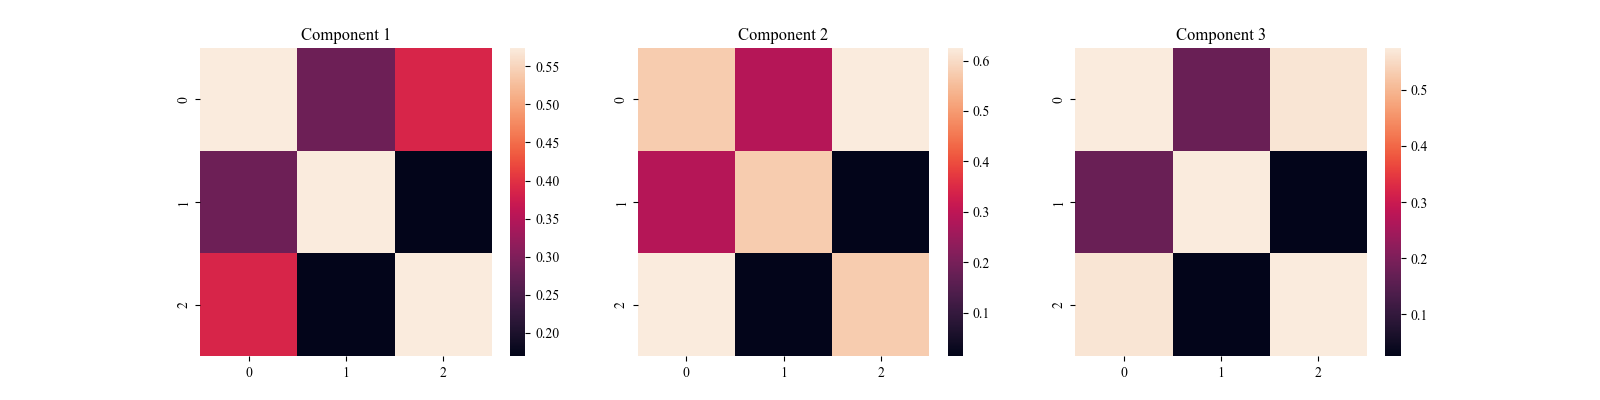
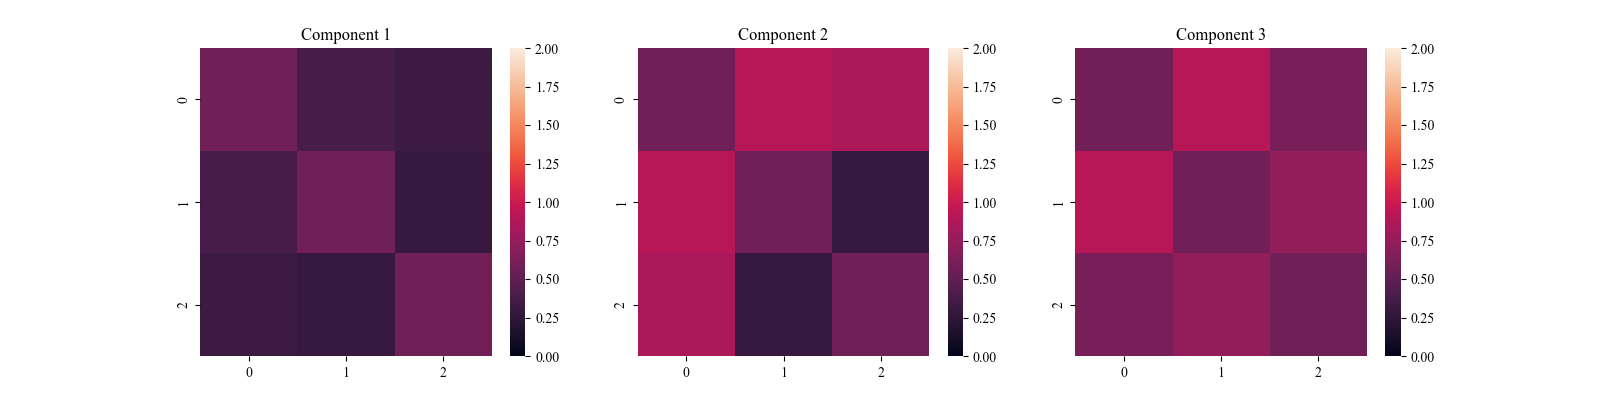
heatmap fix (#38)

diff --git a/src/results/phi_nce_plot.py b/src/results/phi_nce_plot.py
@@ -114,18 +114,21 @@ if __name__ == "__main__":
 
     Ps = get_phi_corr(theta, K)
 
+    min_val = 0
+    max_val = 1.5
+   
     plt.rcParams['font.family'] = 'Times New Roman'
     plt.figure(figsize=(16,4))
     plt.subplot(1,3,1)
-    plot = sns.heatmap(Ps[0])
+    plot = sns.heatmap(Ps[0], vmin=min_val, vmax=max_val)
     plt.title('Component 1')
 
     plt.subplot(1,3,2)
-    plot = sns.heatmap(Ps[1])
+    plot = sns.heatmap(Ps[1], vmin=min_val, vmax=max_val)
     plt.title('Component 2')
 
     plt.subplot(1,3,3)
-    plot = sns.heatmap(Ps[2])
+    plot = sns.heatmap(Ps[2], vmin=min_val, vmax=max_val)
     plt.title('Component 3')
 
     plt.savefig('src/plots/syn_data_phi_heatmap.png')
@@ -137,15 +140,15 @@ if __name__ == "__main__":
     plt.rcParams['font.family'] = 'Times New Roman'
     plt.figure(figsize=(16,4))
     plt.subplot(1,3,1)
-    plot = sns.heatmap(true_phis[0])
+    plot = sns.heatmap(true_phis[0], vmin=min_val, vmax=max_val)
     plt.title('Component 1')
 
     plt.subplot(1,3,2)
-    plot = sns.heatmap(true_phis[1])
+    plot = sns.heatmap(true_phis[1], vmin=min_val, vmax=max_val)
     plt.title('Component 2')
 
     plt.subplot(1,3,3)
-    plot = sns.heatmap(true_phis[2])
+    plot = sns.heatmap(true_phis[2], vmin = min_val, vmax = max_val)
     plt.title('Component 3')
 
     plt.savefig('src/plots/true_phi.png')

diff --git a/src/results/real_phi_nce_plot.py b/src/results/real_phi_nce_plot.py
@@ -90,28 +90,31 @@ if __name__ == "__main__":
         estimationMethod = estimation_method, 
         true_vals = true_vals)
 
-    value = torus_graph.evaluate()
+    #value = torus_graph.evaluate()
 
     theta = estimation_method.theta
+
+    min_val = 0
+    max_val = 1
 
     Ps = get_phi_corr(theta)
     plt.rcParams['font.family'] = 'Times New Roman'
 
     plt.figure(figsize=(16,4))
     plt.subplot(1,3,1)
-    plot = sns.heatmap(Ps[0])
+    plot = sns.heatmap(Ps[0], vmin=min_val, vmax=max_val)
     plot.set_xticklabels(['1','2','3','4','5','6','7'])
     plot.set_yticklabels(['1','2','3','4','5','6','7'])
     plt.title('Component 1')
 
     plt.subplot(1,3,2)
-    plot = sns.heatmap(Ps[1])
+    plot = sns.heatmap(Ps[1], vmin=min_val, vmax=max_val)
     plot.set_xticklabels(['1','2','3','4','5','6','7'])
     plot.set_yticklabels(['1','2','3','4','5','6','7'])
     plt.title('Component 2')
 
     plt.subplot(1,3,3)
-    plot = sns.heatmap(Ps[2])
+    plot = sns.heatmap(Ps[2], vmin=min_val, vmax=max_val)
     plot.set_xticklabels(['1','2','3','4','5','6','7'])
     plot.set_yticklabels(['1','2','3','4','5','6','7'])
     plt.title('Component 3')
